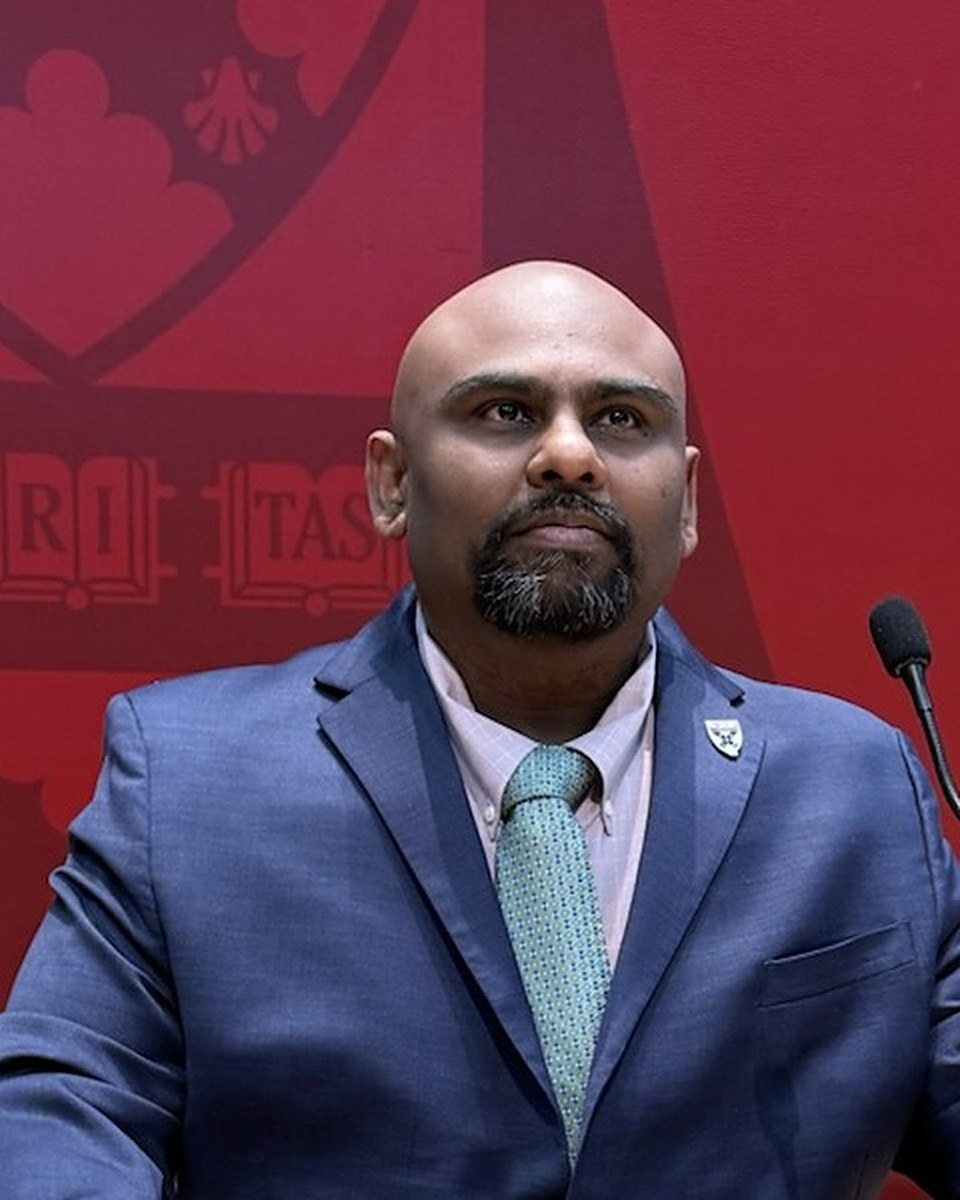
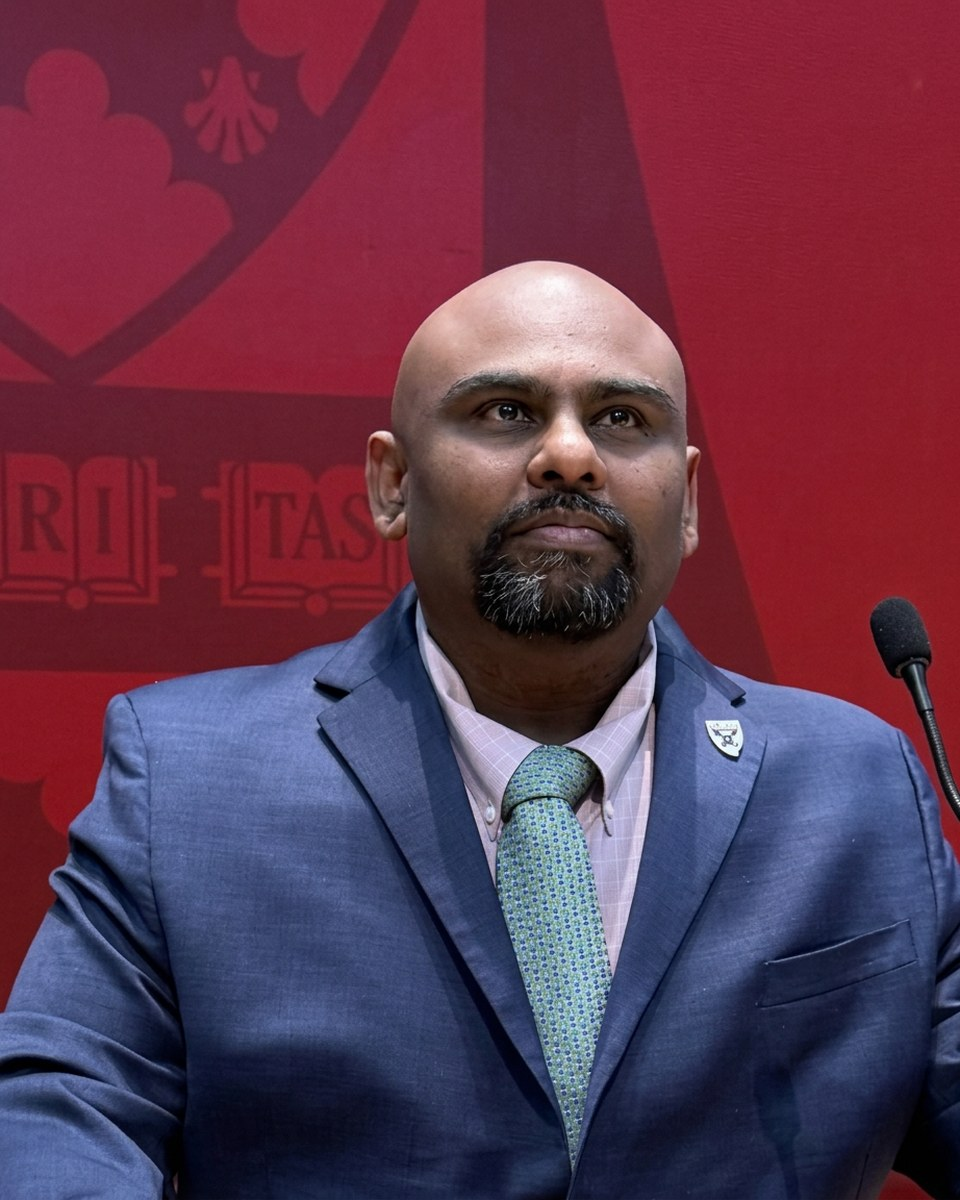
Portrait: pressed-suit retouch of HBS podium photo

diff --git a/dist/index.html b/dist/index.html
@@ -94,8 +94,8 @@
   <div class="container author-grid">
     <div class="author-photo">
       <picture>
-        <source type="image/webp" srcset="/assets/images/portrait-480.webp?v=259f9fa5cb 480w, /assets/images/portrait-960.webp?v=3bf197aa24 960w" sizes="(min-width: 56rem) 26rem, 90vw">
-        <img class="portrait-img" src="/assets/images/portrait-960.jpg?v=84c3c9efc0" srcset="/assets/images/portrait-480.jpg?v=4c90aae68f 480w, /assets/images/portrait-960.jpg?v=84c3c9efc0 960w" sizes="(min-width: 56rem) 26rem, 90vw" width="960" height="1200" alt="Hemanth Reganti, author of The Autonomous Enterprise, in a blue suit, speaking at a podium" loading="lazy" decoding="async">
+        <source type="image/webp" srcset="/assets/images/portrait-480.webp?v=e58060c698 480w, /assets/images/portrait-960.webp?v=8760a308d0 960w" sizes="(min-width: 56rem) 26rem, 90vw">
+        <img class="portrait-img" src="/assets/images/portrait-960.jpg?v=b054b472d0" srcset="/assets/images/portrait-480.jpg?v=a83ecabcbc 480w, /assets/images/portrait-960.jpg?v=b054b472d0 960w" sizes="(min-width: 56rem) 26rem, 90vw" width="960" height="1200" alt="Hemanth Reganti, author of The Autonomous Enterprise, in a blue suit, speaking at a podium" loading="lazy" decoding="async">
       </picture>
     </div>
     <div>

diff --git a/dist/speaking/index.html b/dist/speaking/index.html
@@ -65,8 +65,8 @@
     <div class="why-layout">
       <div class="why-photo">
         <picture>
-        <source type="image/webp" srcset="/assets/images/portrait-480.webp?v=259f9fa5cb 480w, /assets/images/portrait-960.webp?v=3bf197aa24 960w" sizes="(min-width: 56rem) 22rem, 90vw">
-        <img class="portrait-img" src="/assets/images/portrait-960.jpg?v=84c3c9efc0" srcset="/assets/images/portrait-480.jpg?v=4c90aae68f 480w, /assets/images/portrait-960.jpg?v=84c3c9efc0 960w" sizes="(min-width: 56rem) 22rem, 90vw" width="960" height="1200" alt="Hemanth Reganti, author of The Autonomous Enterprise, in a blue suit, speaking at a podium" loading="lazy" decoding="async">
+        <source type="image/webp" srcset="/assets/images/portrait-480.webp?v=e58060c698 480w, /assets/images/portrait-960.webp?v=8760a308d0 960w" sizes="(min-width: 56rem) 22rem, 90vw">
+        <img class="portrait-img" src="/assets/images/portrait-960.jpg?v=b054b472d0" srcset="/assets/images/portrait-480.jpg?v=a83ecabcbc 480w, /assets/images/portrait-960.jpg?v=b054b472d0 960w" sizes="(min-width: 56rem) 22rem, 90vw" width="960" height="1200" alt="Hemanth Reganti, author of The Autonomous Enterprise, in a blue suit, speaking at a podium" loading="lazy" decoding="async">
       </picture>
       </div>
       <div>

diff --git a/dist/about/index.html b/dist/about/index.html
@@ -65,8 +65,8 @@
   <div class="container about">
     <div class="about-photo">
       <picture>
-        <source type="image/webp" srcset="/assets/images/portrait-480.webp?v=259f9fa5cb 480w, /assets/images/portrait-960.webp?v=3bf197aa24 960w" sizes="(min-width: 56rem) 26rem, 90vw">
-        <img class="portrait-img" src="/assets/images/portrait-960.jpg?v=84c3c9efc0" srcset="/assets/images/portrait-480.jpg?v=4c90aae68f 480w, /assets/images/portrait-960.jpg?v=84c3c9efc0 960w" sizes="(min-width: 56rem) 26rem, 90vw" width="960" height="1200" alt="Hemanth Reganti, author of The Autonomous Enterprise, in a blue suit, speaking at a podium" loading="lazy" decoding="async">
+        <source type="image/webp" srcset="/assets/images/portrait-480.webp?v=e58060c698 480w, /assets/images/portrait-960.webp?v=8760a308d0 960w" sizes="(min-width: 56rem) 26rem, 90vw">
+        <img class="portrait-img" src="/assets/images/portrait-960.jpg?v=b054b472d0" srcset="/assets/images/portrait-480.jpg?v=a83ecabcbc 480w, /assets/images/portrait-960.jpg?v=b054b472d0 960w" sizes="(min-width: 56rem) 26rem, 90vw" width="960" height="1200" alt="Hemanth Reganti, author of The Autonomous Enterprise, in a blue suit, speaking at a podium" loading="lazy" decoding="async">
       </picture>
     </div>
     <div>

diff --git a/dist/contact/index.html b/dist/contact/index.html
@@ -305,7 +305,7 @@
         <img class="cover-img" src="/assets/images/cover-400.jpg?v=61441e688d" width="400" height="640" alt="Cover of The Autonomous Enterprise by Hemanth Reganti" loading="lazy" decoding="async">
         <a class="btn btn-dark" href="/press/the-autonomous-enterprise-cover.jpg" download>Download cover</a>
         <p class="hint">JPEG, 1600&times;2560 px</p>
-        <img class="portrait-img" src="/assets/images/portrait-480.jpg?v=4c90aae68f" width="480" height="600" alt="Hemanth Reganti, author of The Autonomous Enterprise, in a blue suit, speaking at a podium" loading="lazy" decoding="async">
+        <img class="portrait-img" src="/assets/images/portrait-480.jpg?v=a83ecabcbc" width="480" height="600" alt="Hemanth Reganti, author of The Autonomous Enterprise, in a blue suit, speaking at a podium" loading="lazy" decoding="async">
         <a class="btn btn-dark" href="/press/hemanth-reganti-headshot.jpg" download>Download headshot</a>
         <p class="hint">JPEG, 960&times;1200 px</p>
       </div>
